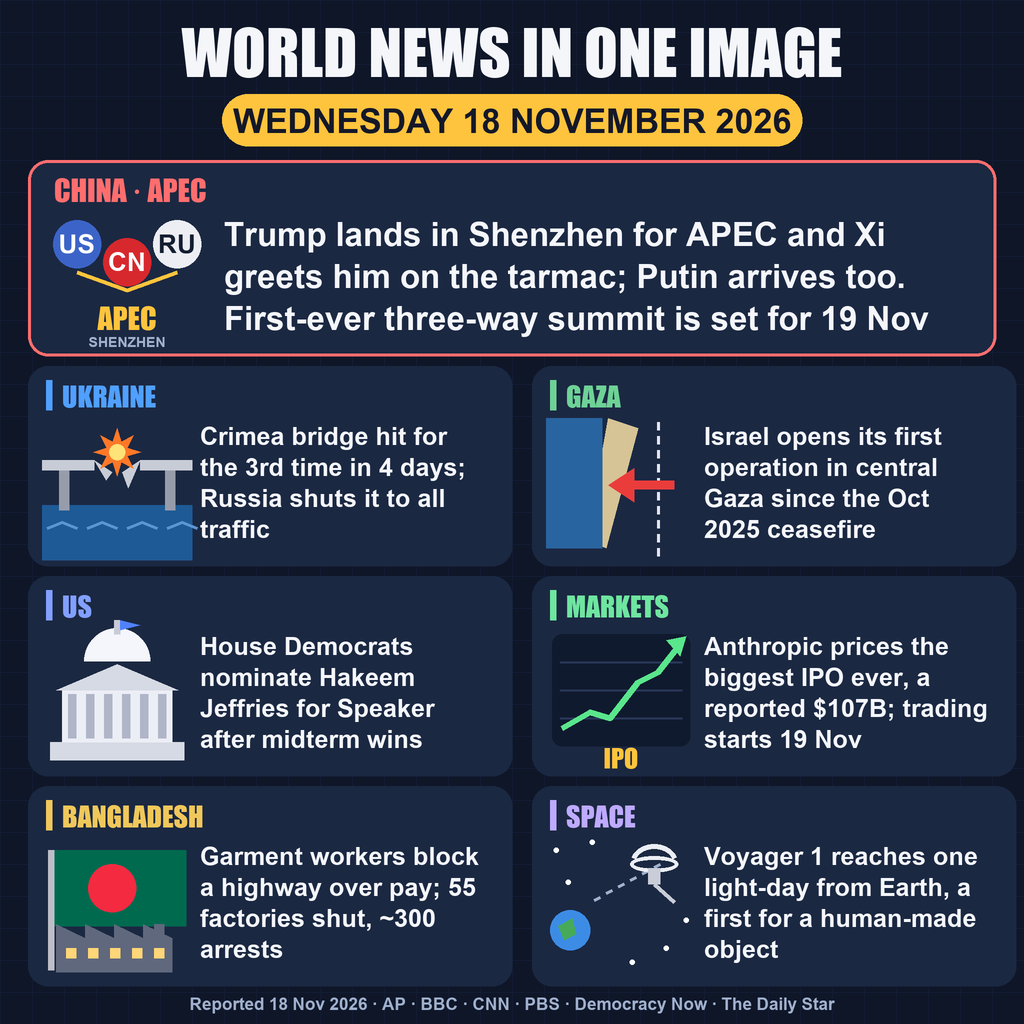
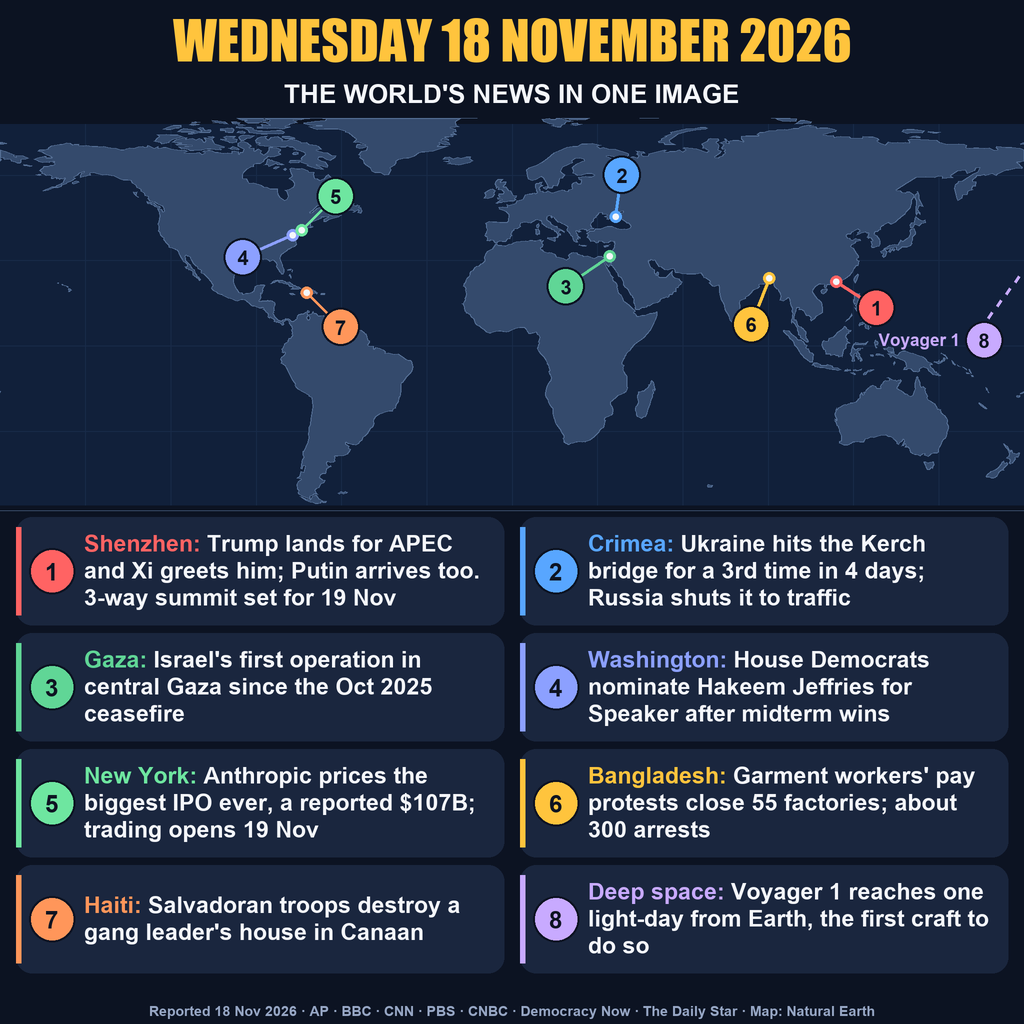
Third version: world map with numbered story pins

diff --git a/tools/draw.py b/tools/draw.py
@@ -1,9 +1,12 @@
 """Draws entry.png: a one-image summary of the world's news of Wednesday 18 November 2026.
 
-Run offline on the author's machine (needs Pillow); the result is committed as entry.png and main.py copies it.
-Every story below is an event reported on 18 November 2026 (see NEWS.md for sources).
+A world map with a numbered pin where each story happened, and a numbered card per story below it.
+Run offline on the author's machine (needs Pillow) with the path of Natural Earth's public-domain
+ne_110m_land.geojson as its argument; the result is committed as entry.png and main.py copies it.
+Every story is an event reported on 18 November 2026 (see NEWS.md for sources).
 """
-import math
+import json
+import sys
 from PIL import Image, ImageDraw, ImageFont
 
 S = 2  # supersampling factor
@@ -12,205 +15,132 @@ FONT_DIR = "C:/Windows/Fonts/"
 BOLD = FONT_DIR + "arialbd.ttf"
 HEAVY = FONT_DIR + "impact.ttf"
 
-BG = (14, 22, 40)
-PANEL = (27, 40, 66)
+BG = (12, 19, 34)
+OCEAN = (17, 32, 58)
+LAND = (52, 74, 108)
+COAST = (86, 112, 150)
+PANEL = (26, 38, 62)
 INK = (244, 246, 250)
-MUTED = (160, 176, 205)
+MUTED = (150, 166, 196)
 ACCENT = (255, 196, 61)
+
+# map window: equirectangular, longitude -180..180 across the full width, latitude 78N..56S
+MAP_Y0, LAT_N, LAT_S = 124, 78.0, -56.0
+MAP_H = round(W * (LAT_N - LAT_S) / 360)
+
+# (location, headline, lon, lat, badge offset dx, dy, colour)
+STORIES = [
+    ("Shenzhen:", "Trump lands for APEC and Xi greets him; Putin arrives too. 3-way summit set for 19 Nov", 114.06, 22.54, 40, 26, (255, 99, 99)),
+    ("Crimea:", "Ukraine hits the Kerch bridge for a 3rd time in 4 days; Russia shuts it to traffic", 36.5, 45.3, 6, -42, (88, 166, 255)),
+    ("Gaza:", "Israel's first operation in central Gaza since the Oct 2025 ceasefire", 34.4, 31.4, -44, 30, (96, 214, 150)),
+    ("Washington:", "House Democrats nominate Hakeem Jeffries for Speaker after midterm wins", -77.0, 38.9, -50, 22, (140, 160, 255)),
+    ("New York:", "Anthropic prices the biggest IPO ever, a reported $107B; trading opens 19 Nov", -74.0, 40.7, 34, -34, (110, 230, 160)),
+    ("Bangladesh:", "Garment workers' pay protests close 55 factories; about 300 arrests", 90.4, 23.8, -18, 46, (255, 196, 61)),
+    ("Haiti:", "Salvadoran troops destroy a gang leader's house in Canaan", -72.2, 18.6, 34, 34, (255, 150, 90)),
+    ("Deep space:", "Voyager 1 reaches one light-day from Earth, the first craft to do so", None, None, 0, 0, (200, 170, 255)),
+]
 
 
 def font(path, size):
-    return ImageFont.truetype(path, size * S)
+    return ImageFont.truetype(path, int(size * S))
 
 
-def wrap(draw, text, fnt, max_w):
-    lines, cur = [], ""
-    for word in text.split():
-        trial = (cur + " " + word).strip()
-        if draw.textlength(trial, font=fnt) <= max_w * S:
-            cur = trial
-        else:
+def proj(lon, lat):
+    return (lon + 180) / 360 * W, MAP_Y0 + (LAT_N - lat) / (LAT_N - LAT_S) * MAP_H
+
+
+def sc(pts):
+    return [(x * S, y * S) for x, y in pts]
+
+
+def draw_map(d, geojson_path):
+    d.rectangle([0, MAP_Y0 * S, W * S, (MAP_Y0 + MAP_H) * S], fill=OCEAN)
+    for lon in range(-150, 180, 30):
+        x, _ = proj(lon, 0)
+        d.line([(x * S, MAP_Y0 * S), (x * S, (MAP_Y0 + MAP_H) * S)], fill=(24, 42, 72), width=S)
+    for lat in (60, 30, 0, -30):
+        _, y = proj(0, lat)
+        d.line([(0, y * S), (W * S, y * S)], fill=(24, 42, 72), width=S)
+    with open(geojson_path, encoding="utf8") as f:
+        land = json.load(f)
+    for feat in land["features"]:
+        g = feat["geometry"]
+        polys = g["coordinates"] if g["type"] == "MultiPolygon" else [g["coordinates"]]
+        for poly in polys:
+            ring = [proj(lon, max(min(lat, LAT_N + 2), LAT_S - 2)) for lon, lat in poly[0]]
+            if len(ring) > 2:
+                d.polygon(sc(ring), fill=LAND, outline=COAST, width=S)
+
+
+def badge(d, cx, cy, r, n, colour, size):
+    d.ellipse([(cx - r - 2) * S, (cy - r - 2) * S, (cx + r + 2) * S, (cy + r + 2) * S], fill=BG)
+    d.ellipse([(cx - r) * S, (cy - r) * S, (cx + r) * S, (cy + r) * S], fill=colour)
+    d.text((cx * S, (cy + 1) * S), str(n), font=font(BOLD, size), fill=(14, 20, 34), anchor="mm")
+
+
+def draw_pins(d):
+    for n, (_, _, lon, lat, dx, dy, colour) in enumerate(STORIES, 1):
+        if lon is None:  # deep space: over the open Pacific at the right edge, pointing off the map
+            bx, by = W - 40, proj(0, 2)[1]
+            for k in range(4):
+                d.line(sc([(bx + 4 + k * 9, by - 22 - k * 12), (bx + 8 + k * 9, by - 28 - k * 12)]), fill=colour, width=3 * S)
+            d.text(((bx - 24) * S, by * S), "Voyager 1", font=font(BOLD, 17), fill=colour, anchor="rm")
+            badge(d, bx, by, 17, n, colour, 20)
+            continue
+        x, y = proj(lon, lat)
+        bx, by = x + dx, y + dy
+        d.line(sc([(x, y), (bx, by)]), fill=colour, width=3 * S)
+        d.ellipse([(x - 6) * S, (y - 6) * S, (x + 6) * S, (y + 6) * S], fill=INK, outline=colour, width=3 * S)
+        badge(d, bx, by, 17, n, colour, 20)
+
+
+def wrap_words(d, words, max_w):
+    """words: list of (text, font, colour); returns lines of the same tuples."""
+    lines, cur, cur_w = [], [], 0
+    for word in words:
+        w = d.textlength(word[0] + " ", font=word[1])
+        if cur and cur_w + d.textlength(word[0], font=word[1]) > max_w * S:
             lines.append(cur)
-            cur = word
+            cur, cur_w = [], 0
+        cur.append(word)
+        cur_w += w
     lines.append(cur)
     return lines
 
 
-def box(d, x, y, w, h, fill, r=18, outline=None, width=0):
-    d.rounded_rectangle([x * S, y * S, (x + w) * S, (y + h) * S], r * S, fill=fill, outline=outline, width=width * S)
+def draw_cards(d):
+    loc_f, head_f = font(BOLD, 23), font(BOLD, 23)
+    x0, y0, cw, ch, gx, gy = 16, MAP_Y0 + MAP_H + 12, 488, 108, 16, 8
+    for i, (loc, text, *_, colour) in enumerate(STORIES):
+        col, row = i % 2, i // 2
+        x, y = x0 + col * (cw + gx), y0 + row * (ch + gy)
+        d.rounded_rectangle([x * S, y * S, (x + cw) * S, (y + ch) * S], 16 * S, fill=PANEL)
+        d.rectangle([x * S, (y + 10) * S, (x + 5) * S, (y + ch - 10) * S], fill=colour)
+        badge(d, x + 36, y + ch / 2, 21, i + 1, colour, 24)
+        words = [(loc, loc_f, colour)] + [(w, head_f, INK) for w in text.split()]
+        lines = wrap_words(d, words, cw - 82)
+        ty = y + ch / 2 - len(lines) * 27 / 2
+        for ln in lines:
+            tx = x + 68
+            for word, fnt, fill in ln:
+                d.text((tx * S, ty * S), word, font=fnt, fill=fill)
+                tx += d.textlength(word + " ", font=fnt) / S
+            ty += 27
 
 
-def rect(d, x0, y0, x1, y1, fill):
-    d.rectangle([x0 * S, y0 * S, x1 * S, y1 * S], fill=fill)
-
-
-def ell(d, cx, cy, rx, ry, fill, outline=None, width=0):
-    d.ellipse([(cx - rx) * S, (cy - ry) * S, (cx + rx) * S, (cy + ry) * S], fill=fill, outline=outline, width=width * S)
-
-
-def poly(d, pts, fill):
-    d.polygon([(x * S, y * S) for x, y in pts], fill=fill)
-
-
-def line(d, pts, fill, width):
-    d.line([(x * S, y * S) for x, y in pts], fill=fill, width=int(width * S), joint="curve")
-
-
-# ---- icons, each drawn in a 150 x 150 square whose top-left corner is (ox, oy) ----
-def icon_bridge(d, ox, oy):
-    rect(d, ox, oy + 95, ox + 150, oy + 150, (30, 90, 150))
-    for i in range(4):
-        line(d, [(ox + 5 + i * 40, oy + 118), (ox + 20 + i * 40, oy + 112), (ox + 35 + i * 40, oy + 118)], (90, 150, 210), 3)
-    for px in (ox + 22, ox + 128):
-        rect(d, px - 5, oy + 55, px + 5, oy + 100, (150, 156, 170))
-    rect(d, ox, oy + 50, ox + 52, oy + 60, (200, 204, 214))
-    rect(d, ox + 98, oy + 50, ox + 150, oy + 60, (200, 204, 214))
-    poly(d, [(ox + 52, oy + 50), (ox + 64, oy + 70), (ox + 70, oy + 62)], (200, 204, 214))
-    poly(d, [(ox + 98, oy + 50), (ox + 86, oy + 78), (ox + 80, oy + 62)], (200, 204, 214))
-    star = []
-    for k in range(16):
-        ang = k * math.pi / 8
-        rad = 24 if k % 2 == 0 else 11
-        star.append((ox + 75 + rad * math.cos(ang), oy + 42 + rad * math.sin(ang)))
-    poly(d, star, (255, 120, 40))
-    ell(d, ox + 75, oy + 42, 8, 8, (255, 226, 120))
-
-
-def icon_summit(d, ox, oy):
-    cols = [((60, 100, 200), "US"), ((215, 40, 45), "CN"), ((236, 238, 244), "RU")]
-    f = font(BOLD, 26)
-    for i, (c, t) in enumerate(cols):
-        cx = ox + 25 + i * 50
-        cy = oy + 50 + (18 if i == 1 else 0)
-        ell(d, cx, cy, 24, 24, c)
-        fill = (20, 30, 50) if t == "RU" else (255, 255, 255)
-        d.text((cx * S, cy * S), t, font=f, fill=fill, anchor="mm")
-    line(d, [(ox + 25, oy + 78), (ox + 75, oy + 96), (ox + 125, oy + 78)], ACCENT, 4)
-    d.text(((ox + 75) * S, (oy + 124) * S), "APEC", font=font(HEAVY, 30), fill=ACCENT, anchor="mm")
-    d.text(((ox + 75) * S, (oy + 148) * S), "SHENZHEN", font=font(BOLD, 14), fill=MUTED, anchor="mm")
-
-
-def icon_gaza(d, ox, oy):
-    poly(d, [(ox + 62, oy + 8), (ox + 92, oy + 18), (ox + 60, oy + 138), (ox + 40, oy + 130)], (214, 196, 150))
-    rect(d, ox, oy + 8, ox + 56, oy + 138, (40, 100, 160))
-    for i in range(0, 130, 14):
-        line(d, [(ox + 112, oy + 12 + i), (ox + 112, oy + 20 + i)], (230, 230, 240), 3)
-    line(d, [(ox + 128, oy + 75), (ox + 82, oy + 75)], (235, 60, 60), 9)
-    poly(d, [(ox + 62, oy + 75), (ox + 88, oy + 58), (ox + 88, oy + 92)], (235, 60, 60))
-
-
-def icon_bangladesh(d, ox, oy):
-    rect(d, ox + 6, oy + 20, ox + 144, oy + 96, (0, 106, 78))
-    ell(d, ox + 70, oy + 58, 24, 24, (244, 42, 65))
-    rect(d, ox + 6, oy + 20, ox + 12, oy + 140, (190, 190, 200))
-    rect(d, ox + 14, oy + 108, ox + 130, oy + 142, (95, 104, 125))
-    for i in range(4):
-        poly(d, [(ox + 14 + i * 29, oy + 108), (ox + 14 + i * 29, oy + 94), (ox + 43 + i * 29, oy + 108)], (95, 104, 125))
-    rect(d, ox + 112, oy + 94, ox + 122, oy + 112, (95, 104, 125))
-    for i in range(5):
-        rect(d, ox + 24 + i * 22, oy + 118, ox + 34 + i * 22, oy + 128, (255, 214, 120))
-
-
-def icon_art(d, ox, oy):
-    box(d, ox + 8, oy + 8, 134, 134, (200, 150, 40), r=6)
-    rect(d, ox + 20, oy + 20, ox + 130, oy + 130, (84, 160, 220))
-    rect(d, ox + 20, oy + 108, ox + 130, oy + 130, (92, 150, 70))
-    rect(d, ox + 70, oy + 70, ox + 80, oy + 112, (92, 62, 40))
-    for cx, cy, r in [(75, 58, 26), (52, 70, 18), (98, 70, 18), (75, 40, 16)]:
-        ell(d, ox + cx, oy + cy, r, r, (240, 244, 240))
-    for cx, cy in [(60, 50), (88, 54), (74, 34), (48, 72), (102, 74), (70, 66)]:
-        ell(d, ox + cx, oy + cy, 5, 5, (240, 150, 175))
-
-
-def icon_voyager(d, ox, oy):
-    ell(d, ox + 24, oy + 100, 20, 20, (60, 140, 230))
-    poly(d, [(ox + 12, oy + 96), (ox + 26, oy + 88), (ox + 30, oy + 104), (ox + 18, oy + 110)], (70, 170, 90))
-    for i in range(0, 70, 12):
-        line(d, [(ox + 48 + i, oy + 70 - i * 0.55), (ox + 54 + i, oy + 67 - i * 0.55)], MUTED, 3)
-    ell(d, ox + 108, oy + 34, 24, 8, None, outline=(235, 238, 245), width=4)
-    d.arc([(ox + 84) * S, (oy + 14) * S, (ox + 132) * S, (oy + 54) * S], 200, 340, fill=(235, 238, 245), width=5 * S)
-    rect(d, ox + 102, oy + 38, ox + 114, oy + 54, (200, 205, 215))
-    line(d, [(ox + 108, oy + 54), (ox + 128, oy + 72)], (200, 205, 215), 4)
-    for sx, sy in [(10, 20), (46, 12), (120, 118), (86, 132), (140, 90), (22, 52)]:
-        ell(d, ox + sx, oy + sy, 2.5, 2.5, (255, 255, 255))
-
-
-def icon_capitol(d, ox, oy):
-    rect(d, ox + 8, oy + 122, ox + 142, oy + 140, (214, 218, 228))
-    rect(d, ox + 20, oy + 70, ox + 130, oy + 122, (236, 238, 246))
-    for i in range(6):
-        rect(d, ox + 26 + i * 18, oy + 74, ox + 34 + i * 18, oy + 118, (176, 182, 200))
-    poly(d, [(ox + 14, oy + 70), (ox + 75, oy + 44), (ox + 136, oy + 70)], (214, 218, 228))
-    d.pieslice([(ox + 42) * S, (oy + 8) * S, (ox + 108) * S, (oy + 74) * S], 180, 360, fill=(244, 246, 252))
-    rect(d, ox + 72, oy + 0, ox + 78, oy + 14, (200, 204, 214))
-    poly(d, [(ox + 78, oy + 0), (ox + 98, oy + 5), (ox + 78, oy + 10)], (80, 130, 255))
-
-
-def icon_ipo(d, ox, oy):
-    box(d, ox + 6, oy + 14, 138, 112, (16, 26, 46), r=10)
-    for i in range(1, 4):
-        line(d, [(ox + 14, oy + 14 + i * 28), (ox + 136, oy + 14 + i * 28)], (40, 56, 90), 2)
-    pts = [(ox + 16, oy + 108), (ox + 44, oy + 92), (ox + 64, oy + 98), (ox + 92, oy + 62), (ox + 112, oy + 52), (ox + 134, oy + 24)]
-    line(d, pts, (90, 230, 140), 6)
-    poly(d, [(ox + 140, oy + 16), (ox + 120, oy + 20), (ox + 134, oy + 36)], (90, 230, 140))
-    d.text(((ox + 75) * S, (oy + 138) * S), "IPO", font=font(HEAVY, 26), fill=ACCENT, anchor="mm")
-
-
-HERO = ("CHINA · APEC", (255, 110, 110), "Trump lands in Shenzhen for APEC and Xi greets him on the tarmac; Putin arrives too. First-ever three-way summit is set for 19 Nov", icon_summit)
-
-STORIES = [
-    ("UKRAINE", (80, 160, 255), "Crimea bridge hit for the 3rd time in 4 days; Russia shuts it to all traffic", icon_bridge),
-    ("GAZA", (110, 210, 150), "Israel opens its first operation in central Gaza since the Oct 2025 ceasefire", icon_gaza),
-    ("US", (130, 160, 255), "House Democrats nominate Hakeem Jeffries for Speaker after midterm wins", icon_capitol),
-    ("MARKETS", (110, 230, 160), "Anthropic prices the biggest IPO ever, a reported $107B; trading starts 19 Nov", icon_ipo),
-    ("BANGLADESH", (240, 200, 90), "Garment workers block a highway over pay; 55 factories shut, ~300 arrests", icon_bangladesh),
-    ("SPACE", (190, 170, 255), "Voyager 1 reaches one light-day from Earth, a first for a human-made object", icon_voyager),
-]
-
-
-def main():
+def main(geojson_path):
     img = Image.new("RGB", (W * S, H * S), BG)
     d = ImageDraw.Draw(img)
-    for i in range(0, W, 32):  # faint grid
-        line(d, [(i, 0), (i, H)], (18, 28, 50), 1)
-        line(d, [(0, i), (W, i)], (18, 28, 50), 1)
-
-    d.text((W // 2 * S, 52 * S), "WORLD NEWS IN ONE IMAGE", font=font(HEAVY, 62), fill=INK, anchor="mm")
-    box(d, 222, 94, 580, 52, ACCENT, r=26)
-    d.text((W // 2 * S, 121 * S), "WEDNESDAY 18 NOVEMBER 2026", font=font(BOLD, 34), fill=(20, 24, 40), anchor="mm")
-
-    tag_f, head_f, hero_f = font(HEAVY, 28), font(BOLD, 25), font(BOLD, 33)
-    x0, y0, full_w = 28, 160, 968
-    # hero: the day's biggest story, across the full width
-    tag, color, text, icon = HERO
-    box(d, x0, y0, full_w, 196, PANEL, r=20, outline=color, width=3)
-    d.text(((x0 + 26) * S, (y0 + 30) * S), tag, font=font(HEAVY, 30), fill=color, anchor="lm")
-    icon(d, x0 + 24, y0 + 34)
-    ty = y0 + 56
-    for ln in wrap(d, text, hero_f, full_w - 220):
-        d.text(((x0 + 196) * S, ty * S), ln, font=hero_f, fill=INK)
-        ty += 42
-
-    pw, ph, gx, gy = 484, 200, 20, 10
-    y1 = y0 + 196 + 10
-    for idx, (tag, color, text, icon) in enumerate(STORIES):
-        col, row = idx % 2, idx // 2
-        x, y = x0 + col * (pw + gx), y1 + row * (ph + gy)
-        box(d, x, y, pw, ph, PANEL, r=20)
-        rect(d, x + 18, y + 14, x + 24, y + 44, color)
-        d.text(((x + 34) * S, (y + 30) * S), tag, font=tag_f, fill=color, anchor="lm")
-        icon(d, x + 14, y + 44)
-        ty = y + 56
-        for ln in wrap(d, text, head_f, pw - 196):
-            d.text(((x + 172) * S, ty * S), ln, font=head_f, fill=INK)
-            ty += 31
-
-    foot = "Reported 18 Nov 2026 · AP · BBC · CNN · PBS · Democracy Now · The Daily Star"
-    d.text((W // 2 * S, 1004 * S), foot, font=font(BOLD, 17), fill=MUTED, anchor="mm")
-
+    d.text((W // 2 * S, 40 * S), "WEDNESDAY 18 NOVEMBER 2026", font=font(HEAVY, 54), fill=ACCENT, anchor="mm")
+    d.text((W // 2 * S, 94 * S), "THE WORLD'S NEWS IN ONE IMAGE", font=font(BOLD, 26), fill=INK, anchor="mm")
+    draw_map(d, geojson_path)
+    draw_pins(d)
+    draw_cards(d)
+    foot = "Reported 18 Nov 2026 · AP · BBC · CNN · PBS · CNBC · Democracy Now · The Daily Star · Map: Natural Earth"
+    d.text((W // 2 * S, 1011 * S), foot, font=font(BOLD, 14), fill=MUTED, anchor="mm")
     img = img.resize((W, H), Image.LANCZOS)
     img.save("entry.png", optimize=True)
 
 
 if __name__ == "__main__":
-    main()
+    main(sys.argv[1])

diff --git a/README.md b/README.md
@@ -4,7 +4,7 @@
 [![rank](https://make.fun/badge/news-image-20261118/nukucux/news-image-20261118/rank.svg)](https://make.fun/bounty/news-image-20261118/leaderboard?utm_source=github&utm_medium=readme&utm_campaign=news-image-20261118)
 [![reward](https://make.fun/badge/news-image-20261118/nukucux/news-image-20261118/reward.svg)](https://make.fun/bounty/news-image-20261118?utm_source=github&utm_medium=readme&utm_campaign=news-image-20261118)
 
-One image summing up the world's news of Wednesday 18 November 2026: the Shenzhen APEC arrivals, the Crimea bridge strike, central Gaza, the Jeffries speaker nomination, a record IPO, Bangladesh's garment protests and Voyager 1's light-day milestone. The image is drawn by tools/draw.py (Pillow, offline); main.py copies it to the output folder. Sources are in NEWS.md.
+One image summing up the world's news of Wednesday 18 November 2026: a world map with a numbered pin for each story (Shenzhen APEC arrivals, the Crimea bridge, central Gaza, the Jeffries speaker nomination, a record IPO, Bangladesh's garment protests, Haiti, Voyager 1) and a card per story. The image is drawn by tools/draw.py (Pillow, offline, with Natural Earth's land outlines); main.py copies it to the output folder. Sources are in NEWS.md.
 
 ## Run it
 

diff --git a/NEWS.md b/NEWS.md
@@ -8,7 +8,10 @@ Each item is dated Wednesday 18 November 2026 in the sources below.
 - House Democrats nominate Hakeem Jeffries for Speaker (PBS NewsHour 18 Nov, Democracy Now 19 Nov)
 - Anthropic prices its IPO on 18 Nov, expected to be the largest ever, with a reported $107.3 billion raised (Democracy Now 19 Nov; Nasdaq trading starts 19 Nov per stockanalysis.com)
 - Bangladesh garment workers block the Dhaka-Mymensingh highway over the minimum wage; 55 factories close, about 300 arrests (The Daily Star)
+- Haiti: Salvadoran forces destroy a house of gang leader Jeff Larose in Canaan (AP, via Wikipedia Current events, 18 Nov)
 - Voyager 1 reaches a distance of one light-day from Earth (CNN)
+
+The map is drawn from Natural Earth's public-domain 1:110m land outlines (ne_110m_land.geojson, v5.1.2), passed to tools/draw.py as its argument.
 
 Checked and left out because they fall on another day: the ICJ Myanmar genocide judgment (19 Nov), the trilateral meeting itself (19 Nov), the first Crimean Bridge strikes (16-17 Nov), the NSA and Apple outages (17 Nov).
 Left out because only one source reported them: a Hegseth visit to Caracas.
